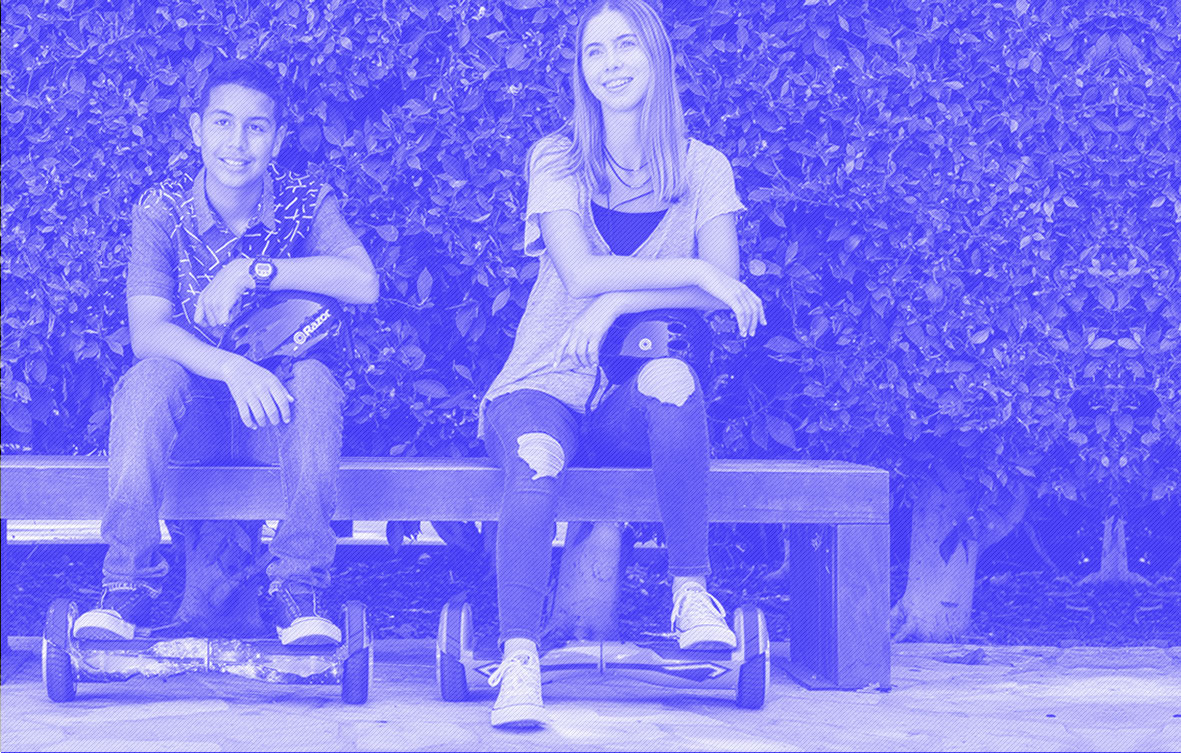
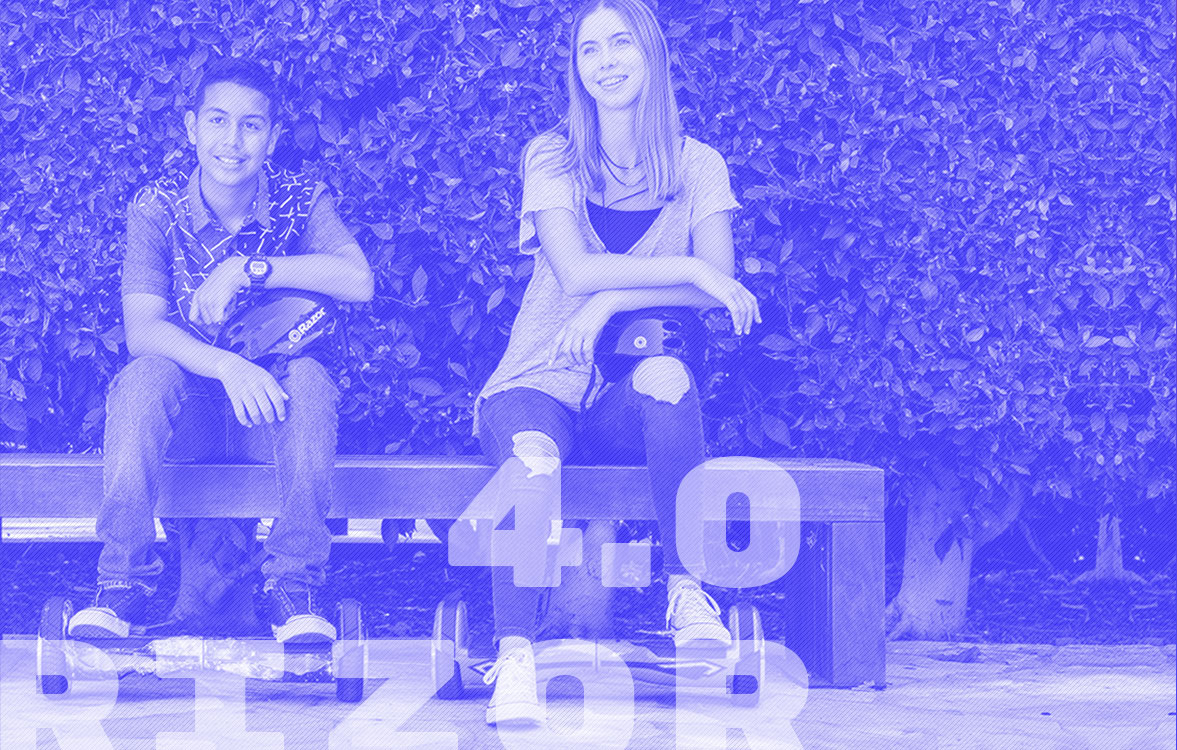
header menu styles

diff --git a/app/index.html b/app/index.html
@@ -4,10 +4,12 @@
   <meta charset="UTF-8">
   <meta name="viewport" content="width=device-width, initial-scale=1.0">
   <link rel="stylesheet" href="css/style.css">
+  <link rel="preconnect" href="https://fonts.gstatic.com">
   <link rel="shortcut icon" href="img/icon-donut.png" type="image/png">
-  <link href="https://uk.allfont.net/allfont.css?fonts=arial-black" rel="stylesheet" type="text/css">
-  <link href="https://fonts.googleapis.com/css2?family=Architects+Daughter&display=swap" rel="stylesheet">
-  <title>The Simpsons</title>
+  <link href="//db.onlinewebfonts.com/c/1ff190f6a58a00ebfaa0a4b0f955a027?family=Rubik+Mono+One" rel="stylesheet" type="text/css"/>
+  <link href="https://fonts.googleapis.com/css2?family=Rubik+Mono+One&display=swap" rel="stylesheet">
+  <link href="https://fonts.googleapis.com/css2?family=Roboto:wght@700&display=swap" rel="stylesheet">
+  <title>Rizor</title>
   <script src = "js/libs.min.js"></script>
 </head>
 <body>
@@ -22,19 +24,19 @@
       <img class="video__arrow" src="img/arrowup.png" alt="">
       <img class="video__poster" src="img/header.jpg" alt="Rizor">
     </div>
-    <img class="image-right" src="img/sideright.png" alt="">
+    <img class="image-right" src="img/bluearrowdown.png" alt="">
     <div class="container">
-      <nav class="nav">
+      <nav class="header__nav clearfix">
         <img class="header__logo" src="img/logo.png" alt="Логотип">
         <menu class="header__menu">
           <li class="header__item">
-            <a href="#">Преимущества</a>
+            <a class="header__link-item header__link-item--underline" href="#">Преимущества</a>
           </li>
           <li class="header__item">
-            <a href="#">Характеристики</a>
+            <a class="header__link-item" href="#">Характеристики</a>
           </li>
           <li class="header__item">
-            <a href="#">Для кого</a>
+            <a class="header__link-item" href="#">Для кого</a>
           </li>
         </menu>
       </nav>
@@ -52,7 +54,7 @@
       <img class="advantages__video-play" src="img/play.png" alt="Смотреть видео">
       <img class="advantages__video-play-round" src="img/whiteround.png" alt="">
     </div>
-    <img class="image-right" src="img/sideright.png" alt="">
+    <img class="image-right" src="img/bluearrowdown.png" alt="">
     <div class="container">
       <div class="advantages__flex-container">
         <h4 class="section__title">

diff --git a/app/scss/style.scss b/app/scss/style.scss
@@ -3,9 +3,89 @@ $pink: #ffbdd3;
 $dark-pink: #9c6274;
 $red: #ee1f1f;
 
-
 body {
-  font-family: 'Arial', arial;
-  font-weight: 600;
-  text-transform: uppercase;
+  font-family: 'Roboto', sans-serif;
+  margin: 0;
+  padding: 0;
+}
+
+.container {
+  box-sizing: border-box;
+  margin: 0 auto;
+  max-width: 1200px;
+  padding: 0 15px;
+  width: 100%;
+}
+
+.video {
+  margin-top: 300px;
+  position: absolute;
+}
+
+.image-right {
+  position: absolute;
+  right: 0;
+}
+
+.clearfix {
+  clear: both;
+  content: '';
+  display: table;
+}
+
+.header {
+
+  &__nav {
+    align-items: center;
+    display: flex;
+    justify-content: space-between;
+    padding: 30px 0;
+    width: 100%;
+  }
+
+  &__logo {
+    height: 40px;
+    float: left;
+  }
+
+  &__menu {
+    display: flex;
+    justify-content: space-between;
+    margin: 0;
+    padding: 0;
+    width: 510px;
+  }
+
+  &__item {
+    float: left;
+    list-style-type: none;
+  }
+
+  &__link-item {
+    color: #000;
+    font-size: 15px;
+    font-weight: 600;
+    letter-spacing: 0.5px;
+    padding: 5px;
+    position: relative;
+    text-decoration: none;
+    text-transform: uppercase;
+  }
+
+  &__link-item--underline::before {
+    border-bottom: solid #3a30f8 1px;
+    content: '';
+    height: 20px;
+    left: -4px;
+    position: absolute;
+    top: 4px;
+    width: 20px;
+  }
+
+  &__title {
+    font-family: "Rubik Mono One", sans-serif;
+    font-size: 100px;
+    margin-top: 200px;
+  }
+
 }

diff --git a/app/css/style.css b/app/css/style.css
@@ -1,5 +1,82 @@
 body {
-  font-family: 'Arial', arial;
+  font-family: 'Roboto', sans-serif;
+  margin: 0;
+  padding: 0;
+}
+
+.container {
+  box-sizing: border-box;
+  margin: 0 auto;
+  max-width: 1200px;
+  padding: 0 15px;
+  width: 100%;
+}
+
+.video {
+  margin-top: 300px;
+  position: absolute;
+}
+
+.image-right {
+  position: absolute;
+  right: 0;
+}
+
+.clearfix {
+  clear: both;
+  content: '';
+  display: table;
+}
+
+.header__nav {
+  align-items: center;
+  display: flex;
+  justify-content: space-between;
+  padding: 30px 0;
+  width: 100%;
+}
+
+.header__logo {
+  height: 40px;
+  float: left;
+}
+
+.header__menu {
+  display: flex;
+  justify-content: space-between;
+  margin: 0;
+  padding: 0;
+  width: 510px;
+}
+
+.header__item {
+  float: left;
+  list-style-type: none;
+}
+
+.header__link-item {
+  color: #000;
+  font-size: 15px;
   font-weight: 600;
+  letter-spacing: 0.5px;
+  padding: 5px;
+  position: relative;
+  text-decoration: none;
   text-transform: uppercase;
+}
+
+.header__link-item--underline::before {
+  border-bottom: solid #3a30f8 1px;
+  content: '';
+  height: 20px;
+  left: -4px;
+  position: absolute;
+  top: 4px;
+  width: 20px;
+}
+
+.header__title {
+  font-family: "Rubik Mono One", sans-serif;
+  font-size: 100px;
+  margin-top: 200px;
 }
